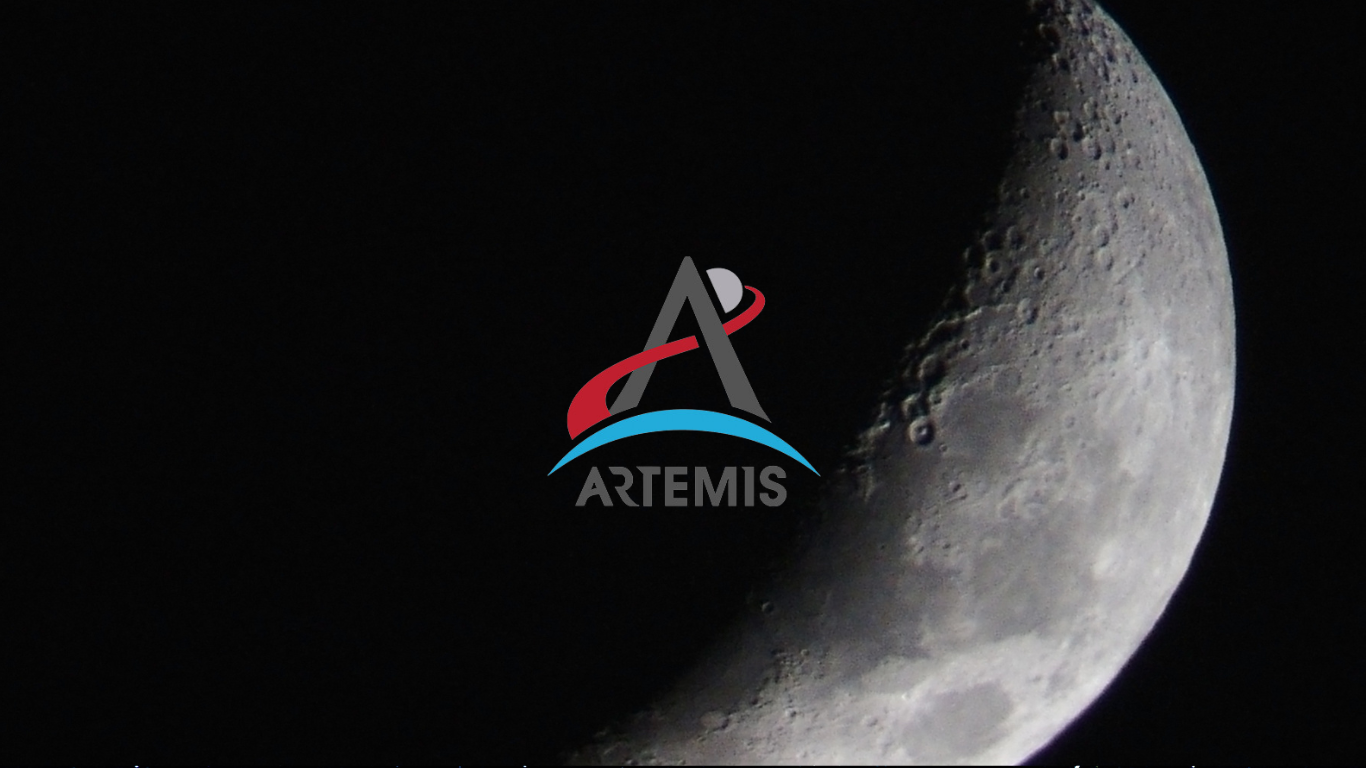
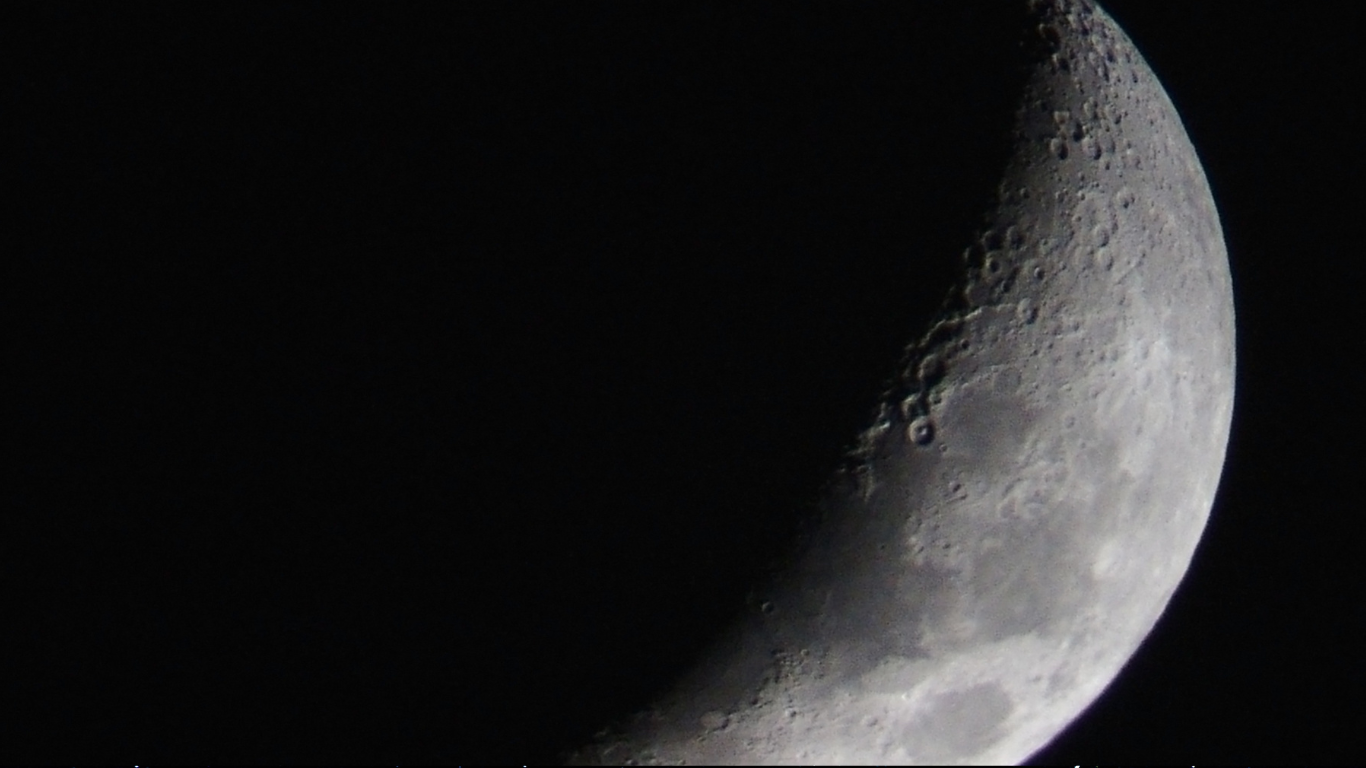
Criando o CSS

Changed region(s): [[0.3997, 0.3438, 0.6149, 0.6562]]

diff --git a/modulo 5/index.html b/modulo 5/index.html
@@ -6,12 +6,15 @@
   <meta name="viewport" content="width=device-width, initial-scale=1.0">
   <title>Artemis</title>
   <link rel="stylesheet" href="style.css">
+  <link rel="preconnect" href="https://fonts.googleapis.com">
+<link rel="preconnect" href="https://fonts.gstatic.com" crossorigin>
+<link href="https://fonts.googleapis.com/css2?family=Space+Grotesk&display=swap" rel="stylesheet">
 </head>
 
 <body>
   <header>
     <div class="conteiner">
-      <img src="imagens/header-logo.png" alt="Logo Artemis">
+      <a href="#" title="Logo"> <img class="logo" src="imagens/header-logo.png" alt="Logo Artemis"> </a>
       <nav>
         <ul>
           <li>
@@ -22,13 +25,12 @@
           </li>
         </ul>
       </nav>
-      <hr>
     </div>
   </header>
-  <section>
-    <div class="conteiner">
-      <h1>De volta para a lua</h1>
-      <h3>Após 50 anos, a humanidade voltará para a lua</h3>
+  <section class="de_volta">
+    <div>
+      <h1>De volta <br> para a lua.</h1>
+      <h3>Após 50 anos, a humanidade <br>voltará para a lua.</h3>
     </div>
   </section>
   <section id="sobre">

diff --git a/modulo 5/style.css b/modulo 5/style.css
@@ -1,2 +1,69 @@
 @charset "UTF-8";
 
+*{
+  margin: 0;
+  padding: 0;
+  box-sizing: border-box;
+}
+
+header, section h1, section h3, section p, form button {
+  font-family: 'Space Grotesk', sans-serif;
+  font-weight: normal;
+}
+
+body, input, textarea {
+  font-family: 'Space Grotesk', sans-serif;
+}
+
+header {
+  padding: 16px 0;
+}
+
+.logo {
+  max-width: 100%;
+  margin-left: 0 auto;
+  display: block;
+}
+
+header nav li {
+  display: inline;
+  margin-left: 16px;
+  font-size: 18px;
+}
+
+header nav li a {
+  text-decoration: none;
+  color: #545454;
+}
+
+.conteiner {
+  max-width: 1280px;
+  width: 100%;
+  margin: 0 auto;
+}
+
+header .conteiner, section .conteiner {
+  display: flex;
+  align-items: center;
+  justify-content: space-between;
+}
+
+.de_volta {
+  background-image: url(imagens/background-moon.png);
+  display: flex;
+  justify-content: left;
+  height: 760px;
+  color: white;
+}
+
+.de_volta h1 {
+  margin-top: 180px;
+  font-size: 100px;
+  margin-left: 145px;
+}
+
+.de_volta h3 {
+  margin-left: 145px;
+  margin-top: 50px;
+  font-size: 30px;
+}
